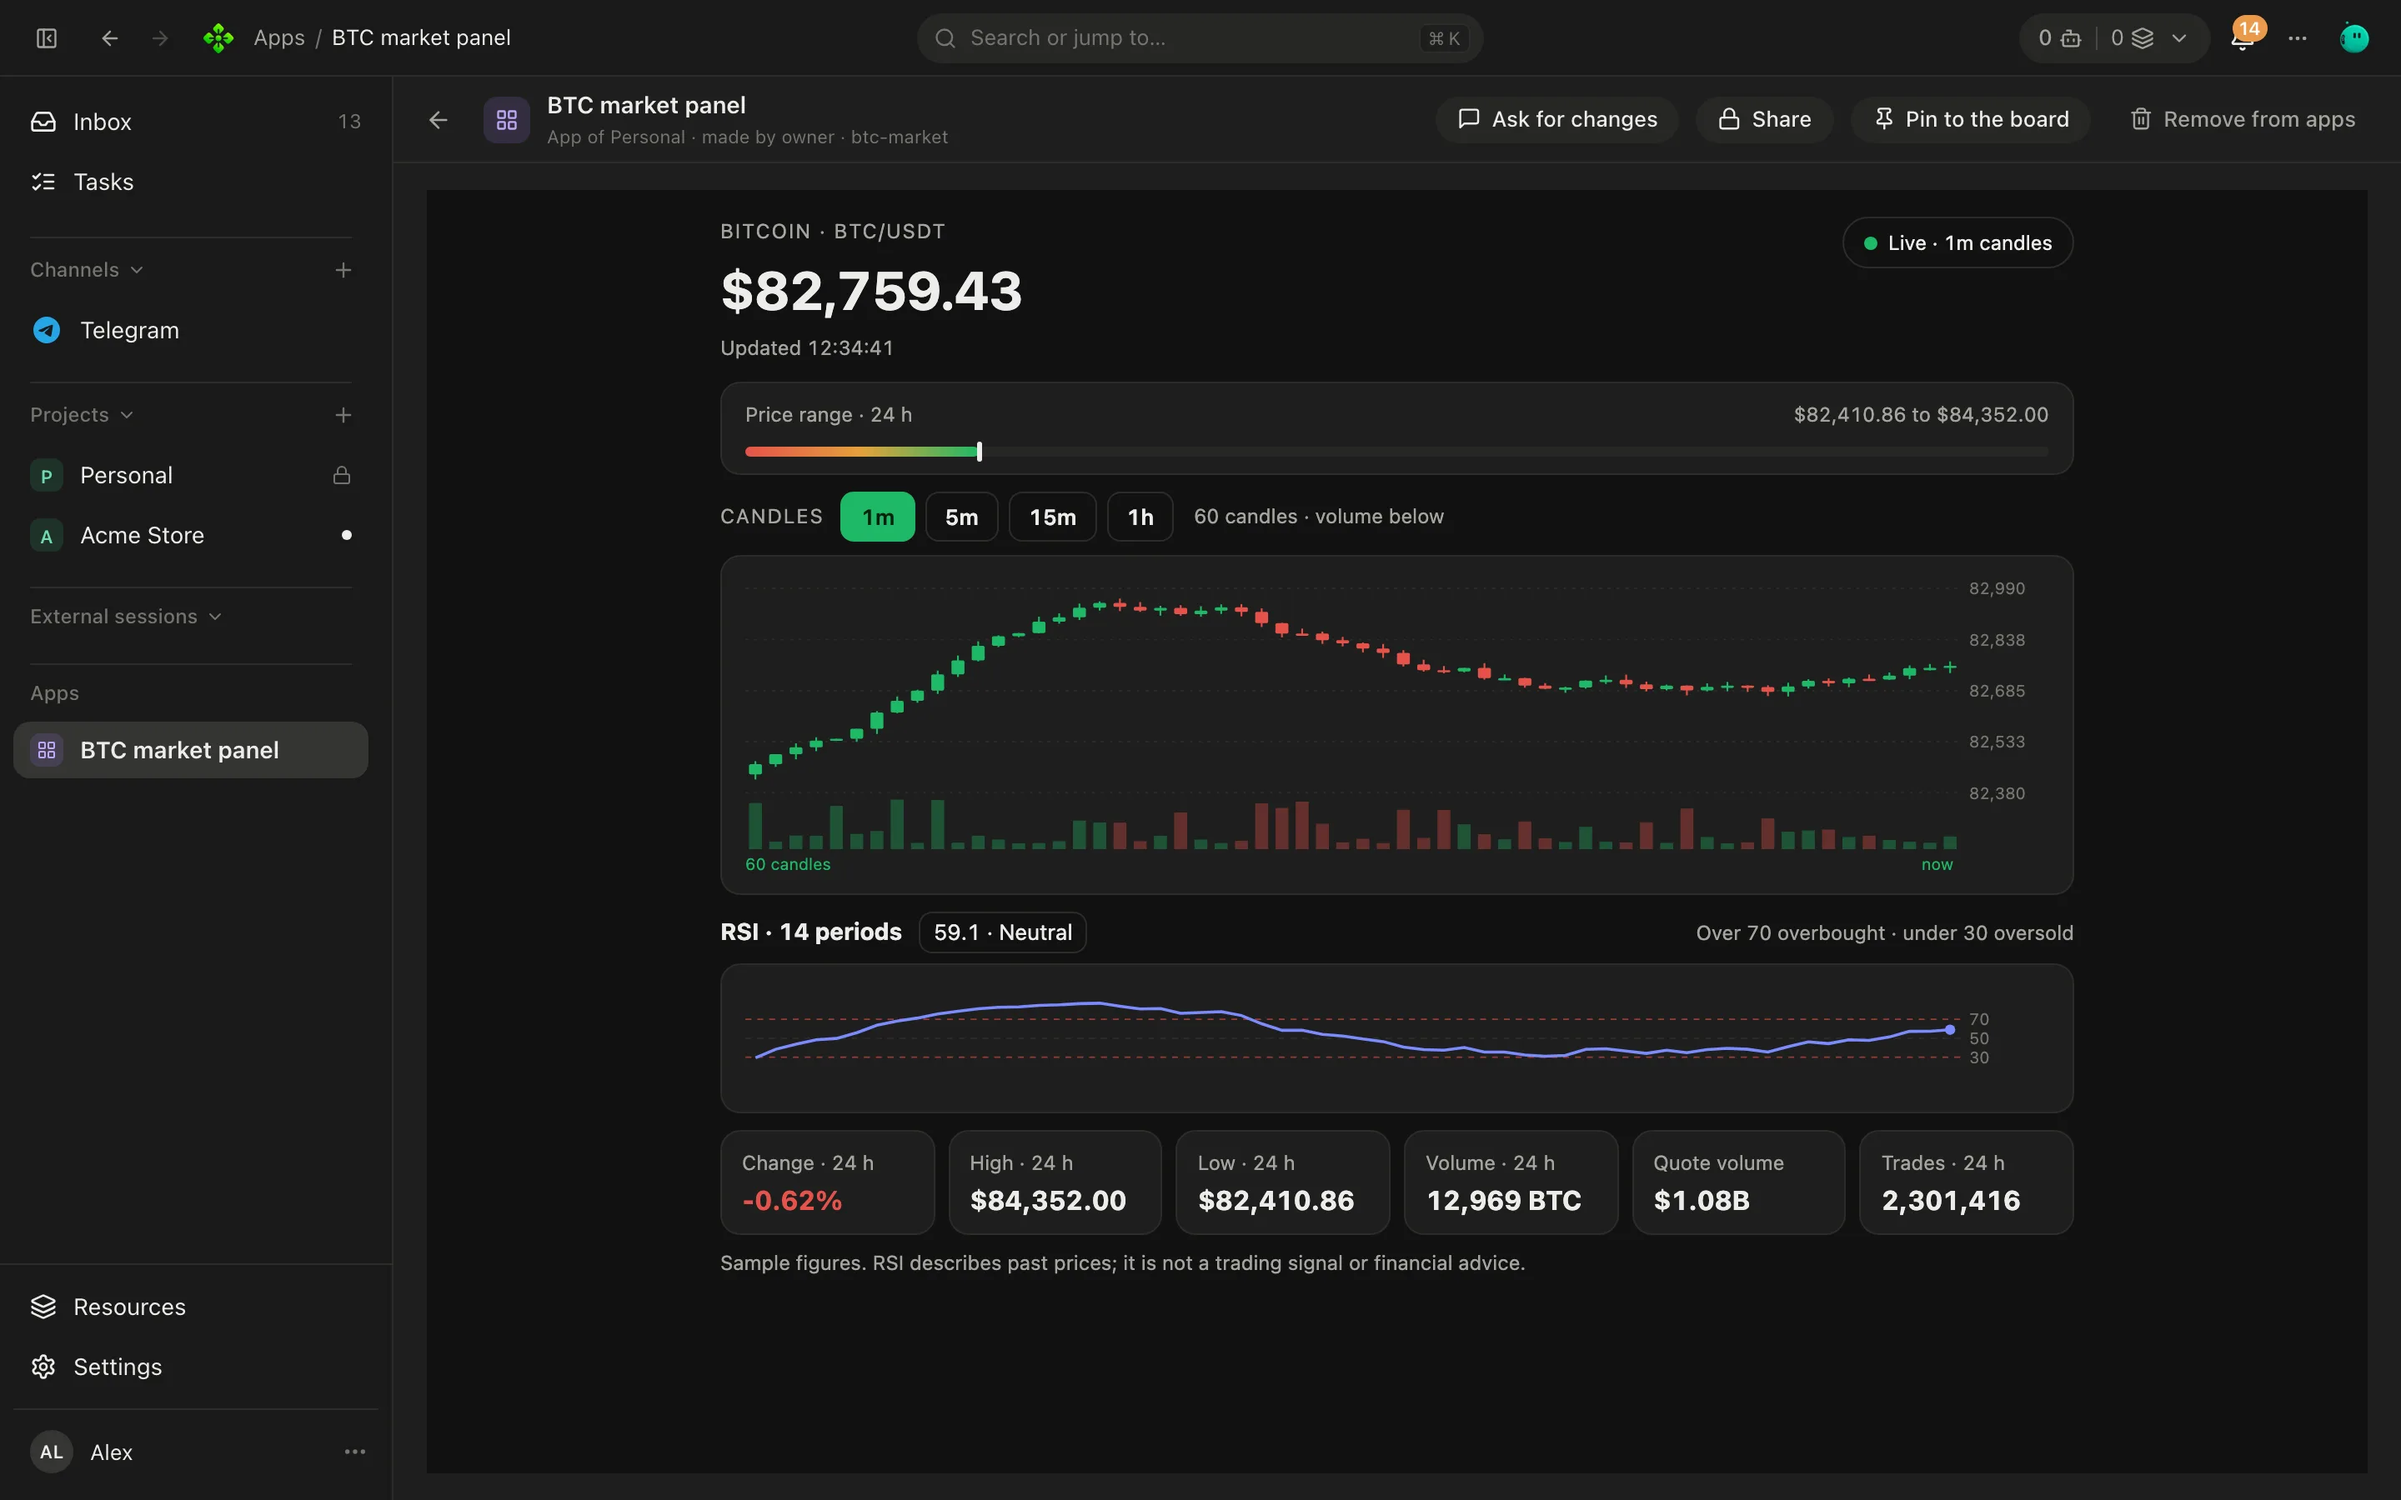
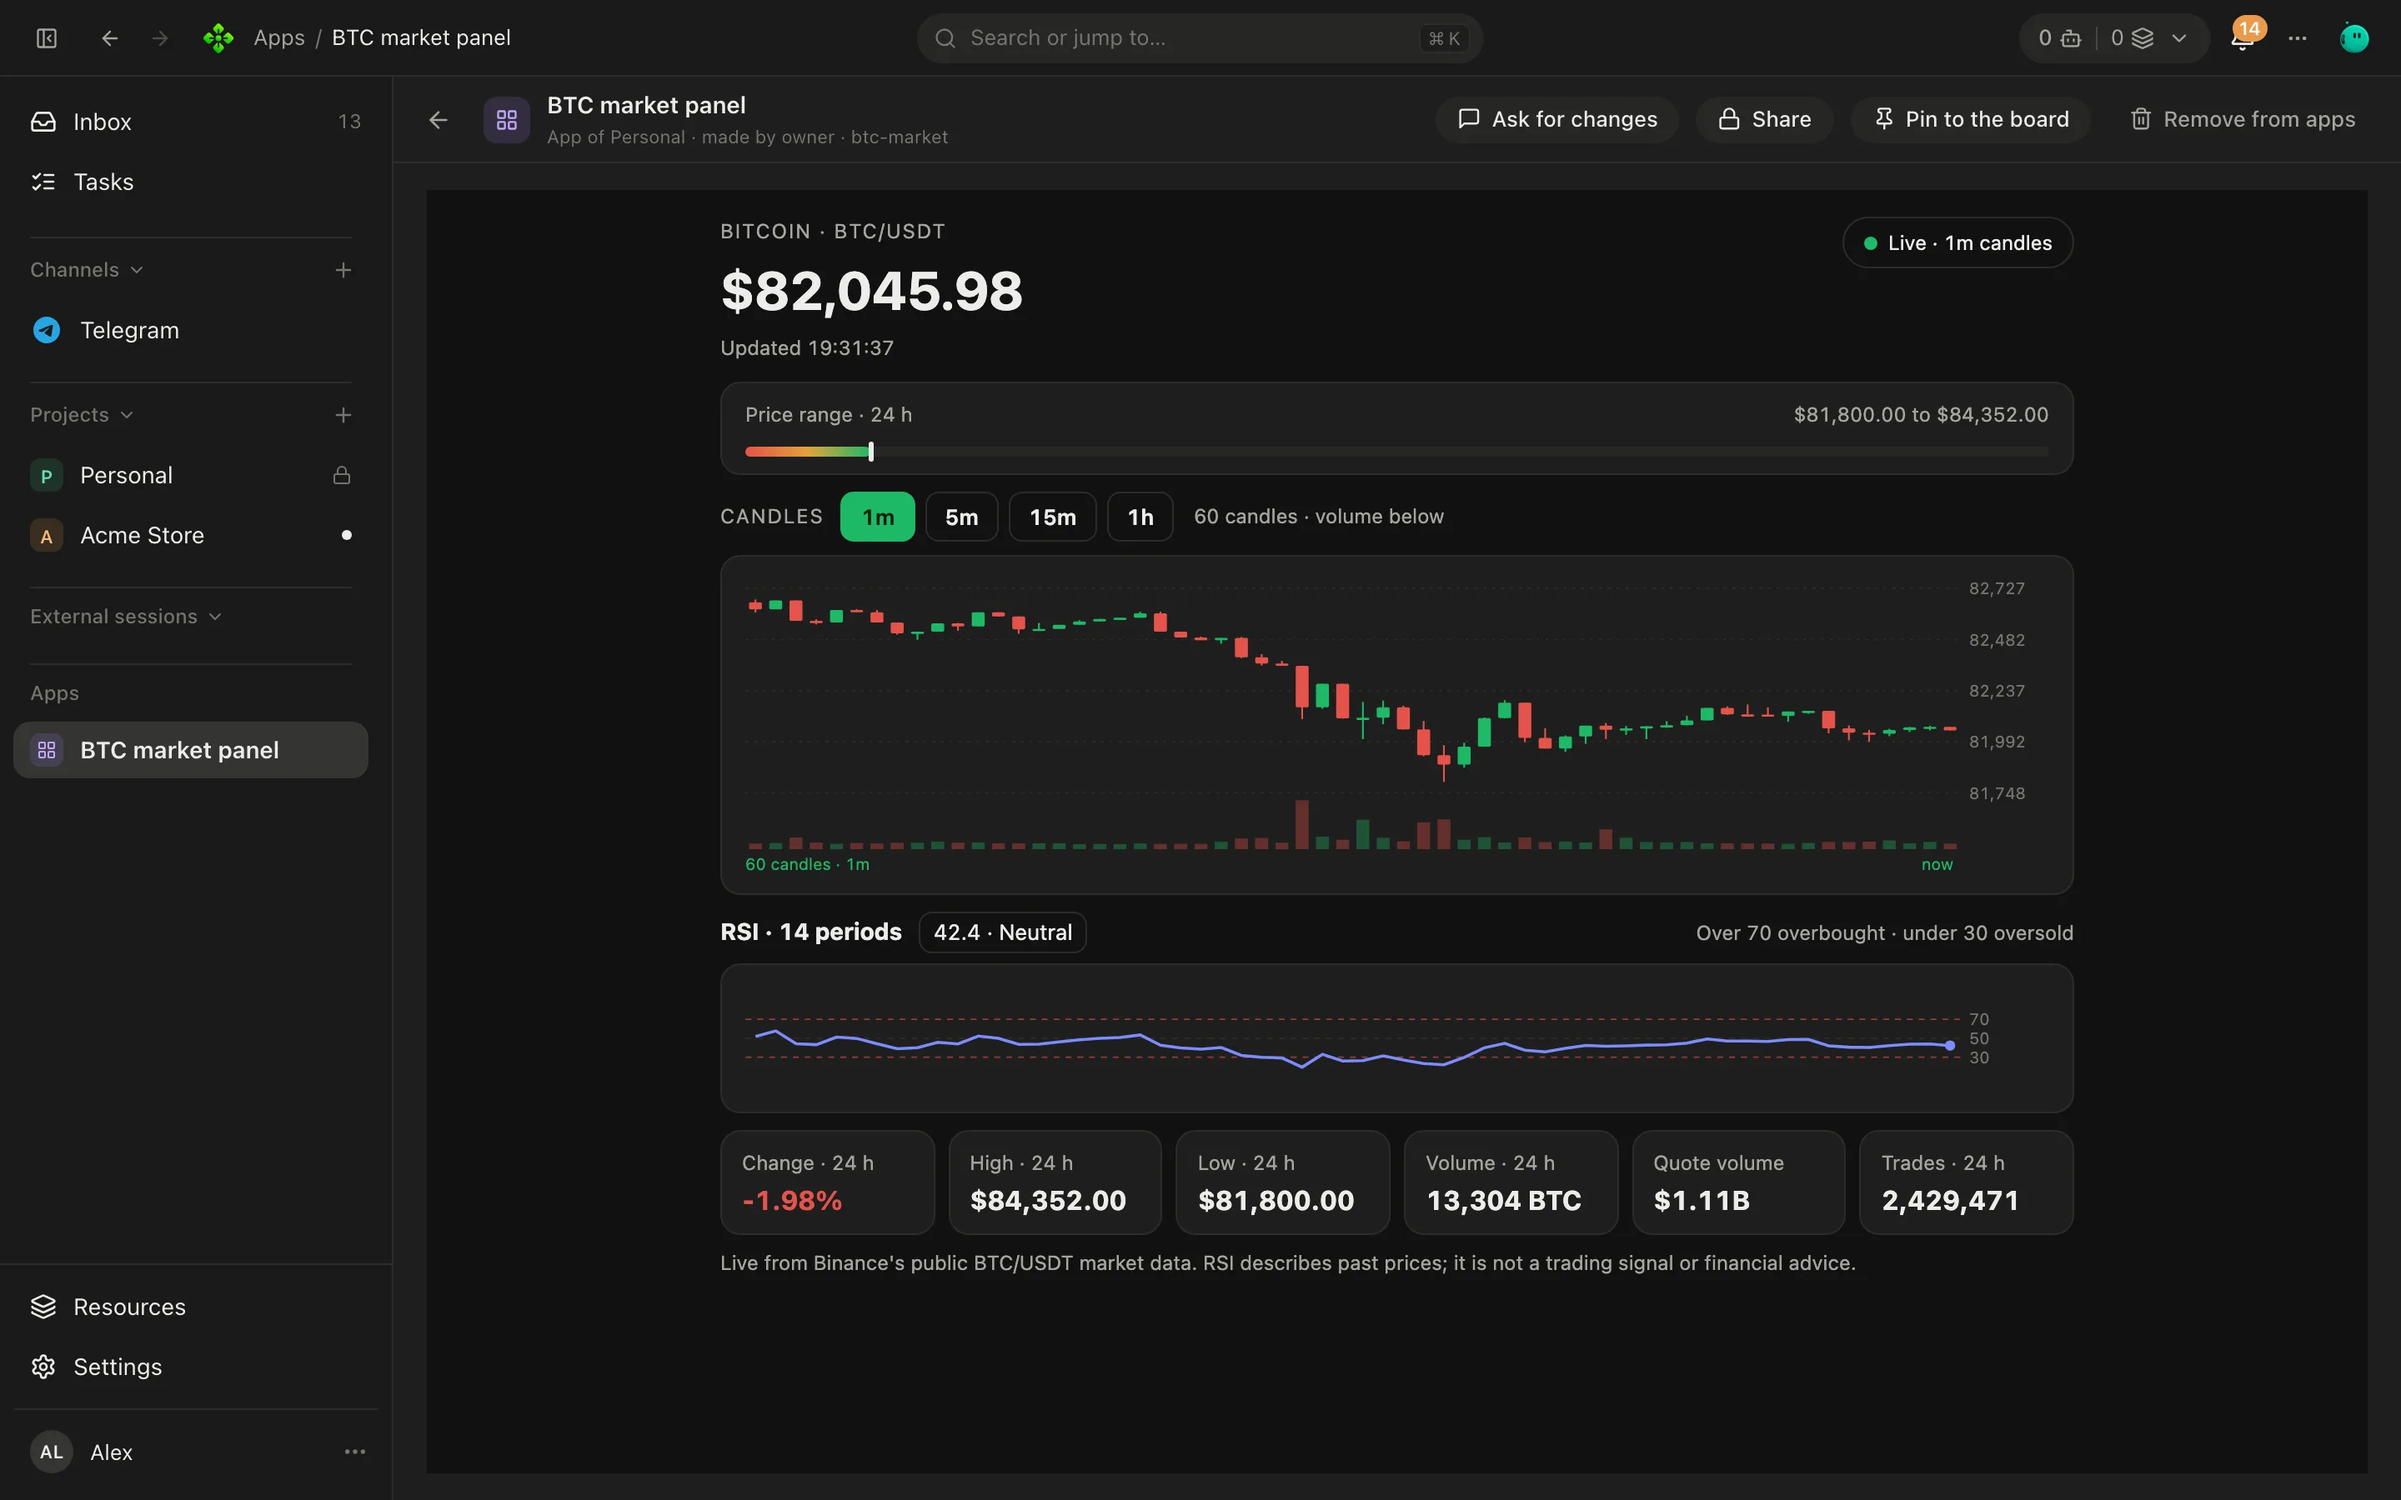
docs(site): the BTC panel in the App screenshot shows Binance's live figures, with sample ones only when it cannot reach them

diff --git a/apps/docs/scripts/demo-widgets/btc.html b/apps/docs/scripts/demo-widgets/btc.html
@@ -36,13 +36,13 @@ svg text{font-size:11px;fill:var(--apx-fg-subtle)}
     <div>
       <div class="k">Bitcoin · BTC/USDT</div>
       <div class="px" id="price">$82,732.19</div>
-      <div class="sub">Updated 12:34:41</div>
+      <div class="sub" id="updated">Loading…</div>
     </div>
-    <div class="pill"><span class="dot"></span><span id="feed">Live · 1m candles</span></div>
+    <div class="pill"><span class="dot"></span><span id="feed">Connecting…</span></div>
   </div>
 
   <div class="card range">
-    <div class="row sub"><span>Price range · 24 h</span><span>$82,410.86 to $84,352.00</span></div>
+    <div class="row sub"><span>Price range · 24 h</span><span id="range"></span></div>
     <div class="bar"><i id="fill"></i><b id="mark"></b></div>
   </div>
 
@@ -58,37 +58,48 @@ svg text{font-size:11px;fill:var(--apx-fg-subtle)}
   <div class="card"><svg id="rsi" viewBox="0 0 880 72"></svg></div>
 
   <div class="stats">
-    <div class="card"><span class="sub">Change · 24 h</span><b style="color:var(--down)">-0.62%</b></div>
-    <div class="card"><span class="sub">High · 24 h</span><b>$84,352.00</b></div>
-    <div class="card"><span class="sub">Low · 24 h</span><b>$82,410.86</b></div>
-    <div class="card"><span class="sub">Volume · 24 h</span><b>12,969 BTC</b></div>
-    <div class="card"><span class="sub">Quote volume</span><b>$1.08B</b></div>
-    <div class="card"><span class="sub">Trades · 24 h</span><b>2,301,416</b></div>
+    <div class="card"><span class="sub">Change · 24 h</span><b id="change"></b></div>
+    <div class="card"><span class="sub">High · 24 h</span><b id="high"></b></div>
+    <div class="card"><span class="sub">Low · 24 h</span><b id="low"></b></div>
+    <div class="card"><span class="sub">Volume · 24 h</span><b id="volume"></b></div>
+    <div class="card"><span class="sub">Quote volume</span><b id="quote"></b></div>
+    <div class="card"><span class="sub">Trades · 24 h</span><b id="trades"></b></div>
   </div>
-  <p class="note">Sample figures. RSI describes past prices; it is not a trading signal or financial advice.</p>
+  <p class="note" id="note"></p>
 </div>
 <script>
 (function () {
-  var LOW = 82410.86, HIGH = 84352.0, N = 60, P = 14;
-  var NS = "http://www.w3.org/2000/svg";
-  function rng(seed) { return function () { seed |= 0; seed = (seed + 0x6d2b79f5) | 0; var t = Math.imul(seed ^ (seed >>> 15), 1 | seed); t = (t + Math.imul(t ^ (t >>> 7), 61 | t)) ^ t; return ((t ^ (t >>> 14)) >>> 0) / 4294967296; }; }
+  // Binance's public market data (no key): the 24 h ticker and the candles. Without the network, sample figures.
+  var API = "https://api.binance.com/api/v3/";
+  var N = 60, P = 14, NS = "http://www.w3.org/2000/svg";
+  var INTERVALS = ["1m", "5m", "15m", "1h"];
+  var interval = "1m", timer;
+  function $(id) { return document.getElementById(id); }
   function el(svg, name, attrs) { var e = document.createElementNS(NS, name); for (var k in attrs) e.setAttribute(k, attrs[k]); svg.appendChild(e); return e; }
-  function money(v) { return "$" + v.toLocaleString("en-US", { minimumFractionDigits: 2, maximumFractionDigits: 2 }); }
+  function money(v, d) { return "$" + Number(v).toLocaleString("en-US", { minimumFractionDigits: d == null ? 2 : d, maximumFractionDigits: d == null ? 2 : d }); }
+  function compact(v) { var n = Number(v); return n >= 1e9 ? (n / 1e9).toFixed(2) + "B" : n >= 1e6 ? (n / 1e6).toFixed(1) + "M" : n.toLocaleString("en-US"); }
+  function clock(t) { return new Date(t).toLocaleTimeString("en-US", { hour12: false }); }
 
-  function series(seed, vol) {
-    var r = rng(seed), c = [], p = 100, drift = 0;
+  function sample() {
+    var seed = 7, r = function () { seed = (seed * 16807) % 2147483647; return seed / 2147483647; };
+    var c = [], p = 82600, now = Date.now();
     for (var i = 0; i < N + P; i++) {
-      drift = drift * 0.9 + (r() - 0.5) * 0.7 + (i > 30 && i < 50 ? -0.12 : 0.03);
-      var o = p, cl = o + drift * vol + (r() - 0.5) * vol * 1.8;
-      var hi = Math.max(o, cl) + r() * vol * 0.6, lo = Math.min(o, cl) - r() * vol * 0.6;
-      c.push({ o: o, c: cl, h: hi, l: lo, v: Math.pow(r(), 3) });
+      var o = p, cl = o + (r() - 0.48) * 60, hi = Math.max(o, cl) + r() * 25, lo = Math.min(o, cl) - r() * 25;
+      c.push({ o: o, c: cl, h: hi, l: lo, v: 5 + r() * 40, t: now - (N + P - i) * 60000 });
       p = cl;
     }
-    var shown = c.slice(P), min = Infinity, max = -Infinity;
-    shown.forEach(function (k) { min = Math.min(min, k.l); max = Math.max(max, k.h); });
-    var a = 82420, b = 82960, s = function (x) { return a + ((x - min) / (max - min)) * (b - a); };
-    c.forEach(function (k) { k.o = s(k.o); k.c = s(k.c); k.h = s(k.h); k.l = s(k.l); });
-    return c;
+    var last = c[c.length - 1].c;
+    return { candles: c, ticker: { lastPrice: last, priceChangePercent: -0.62, highPrice: 84352, lowPrice: 82410.86, volume: 12969.29, quoteVolume: 1083619382, count: 2301416, closeTime: now }, live: false };
+  }
+
+  function load() {
+    var ask = function (path) { return fetch(API + path).then(function (r) { if (!r.ok) throw new Error(r.status); return r.json(); }); };
+    return Promise.all([ask("ticker/24hr?symbol=BTCUSDT"), ask("klines?symbol=BTCUSDT&interval=" + interval + "&limit=" + (N + P))])
+      .then(function (res) {
+        var candles = res[1].map(function (k) { return { t: k[0], o: +k[1], h: +k[2], l: +k[3], c: +k[4], v: +k[5] }; });
+        return { ticker: res[0], candles: candles, live: true };
+      })
+      .catch(sample);
   }
 
   function rsi(c) {
@@ -101,57 +112,84 @@ svg text{font-size:11px;fill:var(--apx-fg-subtle)}
     return out.slice(-N);
   }
 
-  function draw(seed, vol) {
-    var all = series(seed, vol), c = all.slice(P), svg = document.getElementById("candles");
+  function draw(data) {
+    var t = data.ticker, all = data.candles, c = all.slice(-N), svg = $("candles");
+    var last = Number(t.lastPrice), low = Number(t.lowPrice), high = Number(t.highPrice), change = Number(t.priceChangePercent);
+    $("price").textContent = money(last);
+    $("updated").textContent = (data.live ? "Updated " : "Sample from ") + clock(t.closeTime || Date.now());
+    $("feed").textContent = (data.live ? "Live · " : "Sample · ") + interval + " candles";
+    document.querySelector(".dot").style.background = data.live ? "var(--up)" : "var(--apx-fg-subtle)";
+    $("range").textContent = money(low) + " to " + money(high);
+    var pos = Math.max(0, Math.min(100, ((last - low) / (high - low || 1)) * 100));
+    $("fill").style.width = pos + "%";
+    $("mark").style.left = "calc(" + pos + "% - 1px)";
+    $("change").textContent = (change > 0 ? "+" : "") + change.toFixed(2) + "%";
+    $("change").style.color = change < 0 ? "var(--down)" : "var(--up)";
+    $("high").textContent = money(high);
+    $("low").textContent = money(low);
+    $("volume").textContent = Math.round(Number(t.volume)).toLocaleString("en-US") + " BTC";
+    $("quote").textContent = "$" + compact(t.quoteVolume);
+    $("trades").textContent = Number(t.count).toLocaleString("en-US");
+    $("note").textContent = (data.live ? "Live from Binance's public BTC/USDT market data. " : "Sample figures: Binance could not be reached. ") +
+      "RSI describes past prices; it is not a trading signal or financial advice.";
+
     svg.textContent = "";
-    var W = 820, top = 8, H = 138, vTop = 150, vH = 30, lo = 82380, hi = 82990;
+    var lo = Infinity, hi = -Infinity;
+    c.forEach(function (k) { lo = Math.min(lo, k.l); hi = Math.max(hi, k.h); });
+    var pad = (hi - lo) * 0.06 || 1; lo -= pad; hi += pad;
+    var vmax = Math.max.apply(null, c.map(function (k) { return k.v; })) || 1;
+    var W = 820, top = 8, H = 138, vTop = 150, vH = 30;
     var y = function (v) { return top + ((hi - v) / (hi - lo)) * H; };
     for (var g = 0; g < 5; g++) {
       var v = lo + ((hi - lo) * (4 - g)) / 4, gy = y(v);
       el(svg, "line", { x1: 0, x2: W, y1: gy, y2: gy, class: "grid", "stroke-dasharray": "2 4" });
       el(svg, "text", { x: W + 6, y: gy + 4 }).textContent = v.toLocaleString("en-US", { maximumFractionDigits: 0 });
     }
-    var step = W / N;
+    var step = W / c.length;
     c.forEach(function (k, i) {
       var x = i * step + step / 2, color = k.c >= k.o ? "var(--up)" : "var(--down)";
       el(svg, "line", { x1: x, x2: x, y1: y(k.h), y2: y(k.l), stroke: color, "stroke-width": 1.2 });
       var bt = y(Math.max(k.o, k.c)), bh = Math.max(1.5, Math.abs(y(k.o) - y(k.c)));
       el(svg, "rect", { x: x - step * 0.32, y: bt, width: step * 0.64, height: bh, fill: color, rx: 1 });
-      var vh = 4 + k.v * vH;
+      var vh = 3 + (k.v / vmax) * vH;
       el(svg, "rect", { x: x - step * 0.32, y: vTop + vH - vh + 4, width: step * 0.64, height: vh, fill: color, opacity: 0.35 });
     });
-    el(svg, "text", { x: 0, y: 198, style: "fill:var(--up)" }).textContent = "60 candles";
+    el(svg, "text", { x: 0, y: 198, style: "fill:var(--up)" }).textContent = c.length + " candles · " + interval;
     el(svg, "text", { x: W - 26, y: 198, style: "fill:var(--up)" }).textContent = "now";
 
-    var last = c[c.length - 1].c;
-    document.getElementById("price").textContent = money(last);
-    var pos = ((last - LOW) / (HIGH - LOW)) * 100;
-    document.getElementById("fill").style.width = pos + "%";
-    document.getElementById("mark").style.left = "calc(" + pos + "% - 1px)";
-
-    var r = rsi(all), rs = document.getElementById("rsi");
+    var r = rsi(all), rs = $("rsi");
     rs.textContent = "";
     var ry = function (v) { return 4 + ((100 - v) / 100) * 64; };
     [70, 50, 30].forEach(function (v) {
       el(rs, "line", { x1: 0, x2: W, y1: ry(v), y2: ry(v), stroke: v === 50 ? "var(--apx-border)" : "var(--down)", "stroke-dasharray": "4 4", opacity: v === 50 ? 1 : 0.6 });
       el(rs, "text", { x: W + 6, y: ry(v) + 4 }).textContent = String(v);
     });
-    var pts = r.map(function (v, i) { return (i * step + step / 2).toFixed(1) + "," + ry(v).toFixed(1); }).join(" ");
+    var rstep = W / r.length;
+    var pts = r.map(function (v, i) { return (i * rstep + rstep / 2).toFixed(1) + "," + ry(v).toFixed(1); }).join(" ");
     el(rs, "polyline", { points: pts, fill: "none", stroke: "#7c8cff", "stroke-width": 2 });
     var lv = r[r.length - 1], lp = pts.split(" ").pop().split(",");
     el(rs, "circle", { cx: lp[0], cy: lp[1], r: 3.5, fill: "#7c8cff" });
-    document.getElementById("rsiv").textContent = lv.toFixed(1) + " · " + (lv > 70 ? "Overbought" : lv < 30 ? "Oversold" : "Neutral");
+    $("rsiv").textContent = lv.toFixed(1) + " · " + (lv > 70 ? "Overbought" : lv < 30 ? "Oversold" : "Neutral");
+    document.body.dataset.state = data.live ? "live" : "sample";
   }
 
-  var buttons = document.querySelectorAll(".chips button"), vols = [22, 34, 48, 70];
+  function refresh() {
+    clearTimeout(timer);
+    load().then(function (data) {
+      draw(data);
+      if (data.live) timer = setTimeout(refresh, 15000);
+    });
+  }
+
+  var buttons = document.querySelectorAll(".chips button");
   buttons.forEach(function (b, i) {
     b.addEventListener("click", function () {
       buttons.forEach(function (o) { o.setAttribute("aria-pressed", String(o === b)); });
-      document.getElementById("feed").textContent = "Live · " + b.textContent + " candles";
-      draw(7 + i * 13, vols[i]);
+      interval = INTERVALS[i];
+      refresh();
     });
   });
-  draw(7, vols[0]);
+  refresh();
 })();
 </script>
 </body>

diff --git a/apps/docs/scripts/shots.ts b/apps/docs/scripts/shots.ts
@@ -227,6 +227,8 @@ const SHOTS: Shot[] = [
     go: async (p) => {
       await at("thread=home")(p);
       await p.getByRole("complementary").getByRole("button", { name: "BTC market panel" }).first().click();
+      // The widget fetches Binance's live figures (or falls back to sample ones) before it draws.
+      await p.frameLocator("iframe").first().locator("body[data-state]").waitFor({ timeout: 20_000 });
     },
   },
   {

diff --git a/apps/docs/scripts/demo-seed.ts b/apps/docs/scripts/demo-seed.ts
@@ -395,6 +395,8 @@ export async function seed(rpc: Rpc, world: { repo: string; extension: string },
       name: "btc-market",
       title: "BTC market panel",
       html: WIDGET_BTC,
+      // Live from Binance's public market data; without the network the widget shows sample figures.
+      connect: ["https://api.binance.com"],
       app: true,
       thread: "home",
     });
